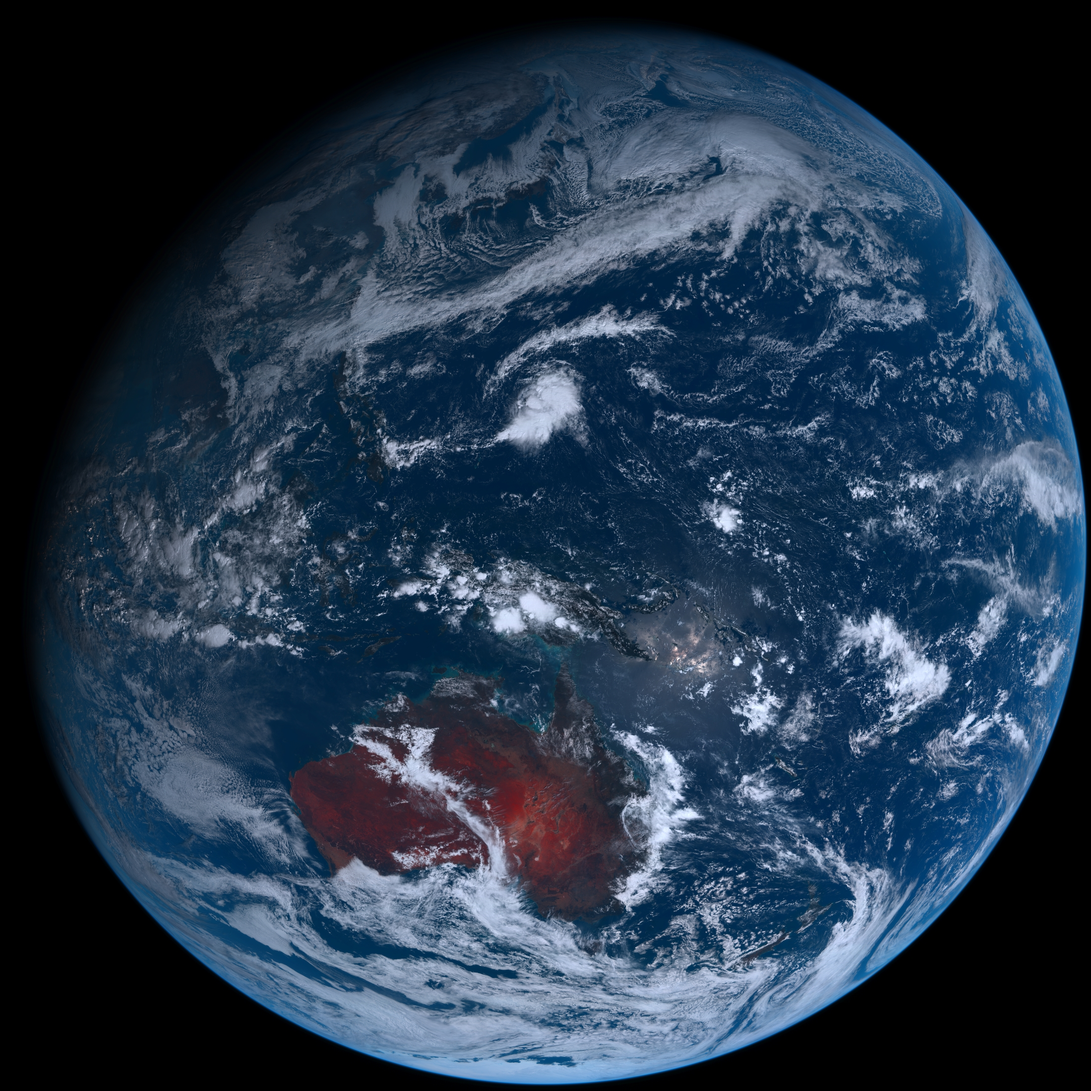
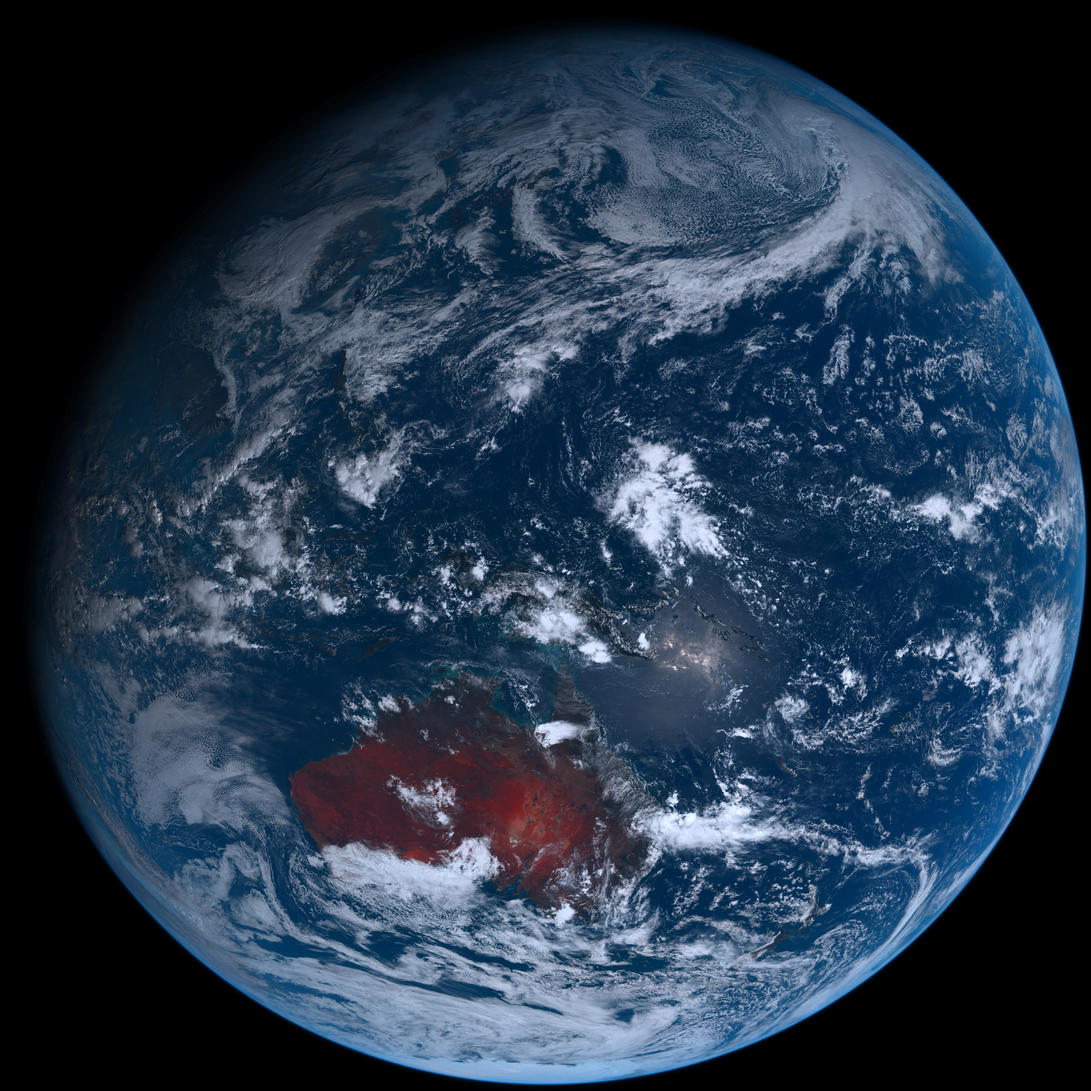
Tuesday 01/02/2024 03:08 +00

diff --git a/README.md b/README.md
@@ -1,12 +1,12 @@
 # ps1
 
 - ### [BingWallpaper](https://github.com/milankomaj/ps1/wiki/BingWallpaper)  [![Generate Wallpapers Github README.md](https://github.com/milankomaj/ps1/actions/workflows/GenWall.yml/badge.svg?event=schedule)](https://github.com/milankomaj/ps1/actions/workflows/GenWall.yml)
-- ##### Monday 01/01/2024 03:08:59 +00
+- ##### Tuesday 02/01/2024 03:08:10 +00
 <img src="BingWallpaper/latest.jpg" width="700" height="auto" title="👉  BingWallpaper  👈">
-Red fox sleeping in the snow, Abruzzo, Italy (© marco vancini/500px/Getty Images)
+Prayer flags in Phobjikha Valley, Bhutan (© John Warburton-Lee/DanitaDelimont.com)
 
 - ### [Himawari](https://github.com/milankomaj/ps1/wiki/Himawari) [![Generate Wallpapers Github README.md](https://github.com/milankomaj/ps1/actions/workflows/GenWall.yml/badge.svg?event=schedule)](https://github.com/milankomaj/ps1/actions/workflows/GenWall.yml) [![Video](https://github.com/milankomaj/ps1/actions/workflows/video.yml/badge.svg?event=schedule)](https://github.com/milankomaj/ps1/actions/workflows/video.yml)
-- ##### Monday 01/01/2024 03:09:33 +00
+- ##### Tuesday 02/01/2024 03:08:44 +00
 <img src="Himawari/latest.jpg" width="auto" height="371" title="👉  Himawari  👈"> <img src="Himawari/pifd/himawari_pifd.webp" width="auto" height="371"/>
 
 
